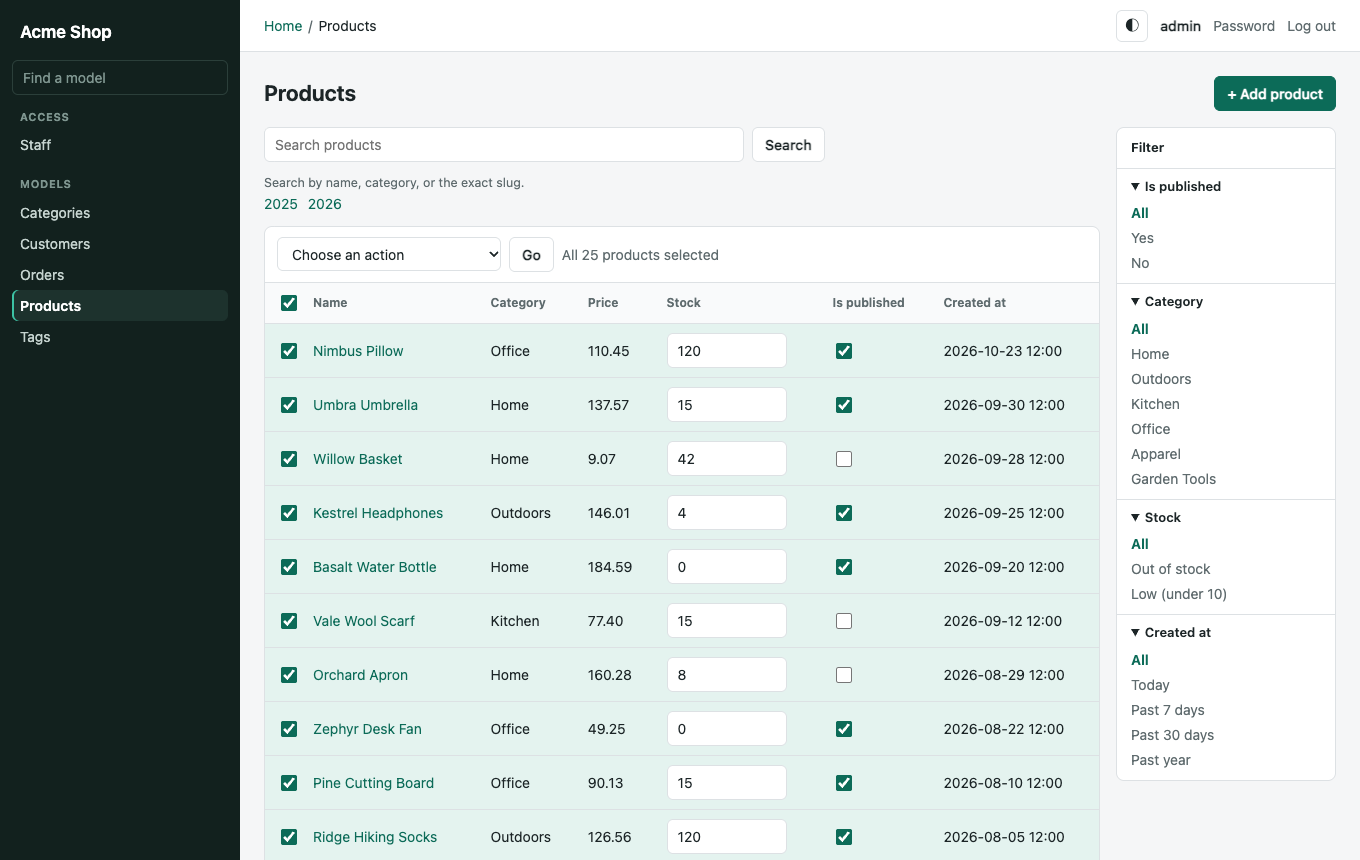
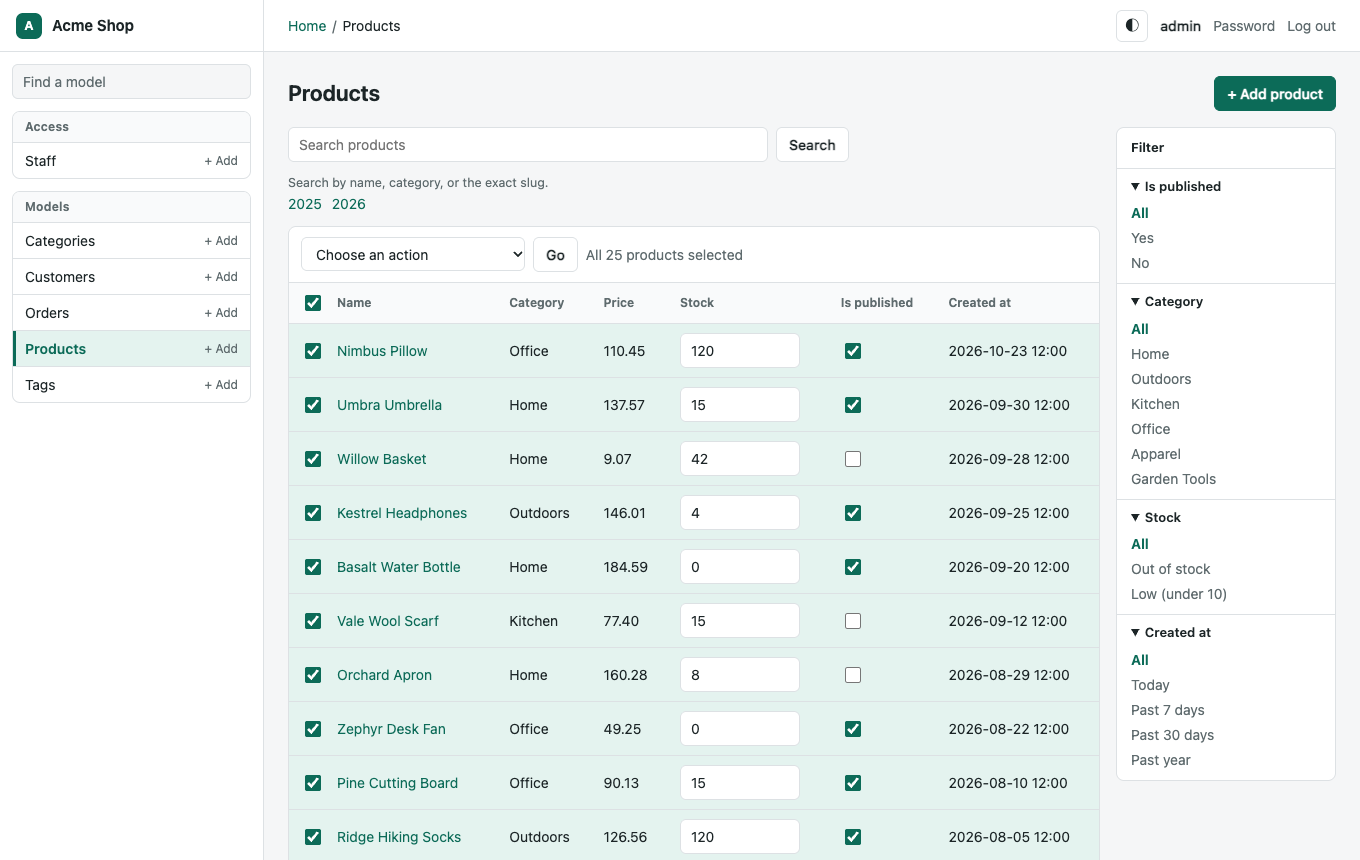
feat: redesign the sidebar as grouped model cards
Groups become cards with one row per model and an always visible add link,
on the page's own colors instead of a dark panel. The model filter now only
matches model names.

diff --git a/src/fastapi_panel/static/panel.css b/src/fastapi_panel/static/panel.css
@@ -6,10 +6,6 @@
   --bg: #f5f6f7;
   --surface: #ffffff;
   --surface-alt: #f9fafb;
-  --sidebar: #12211e;
-  --sidebar-text: #c5d3cf;
-  --sidebar-muted: #7f9690;
-  --sidebar-hover: #1d322d;
   --text: #1c2527;
   --muted: #5f6b6e;
   --border: #dde1e4;
@@ -32,10 +28,6 @@
   --bg: #111516;
   --surface: #1a2022;
   --surface-alt: #20282a;
-  --sidebar: #0c1011;
-  --sidebar-text: #bcc8c5;
-  --sidebar-muted: #748480;
-  --sidebar-hover: #182022;
   --text: #e5eaeb;
   --muted: #9aa7aa;
   --border: #2e383a;
@@ -57,10 +49,6 @@
     --bg: #111516;
     --surface: #1a2022;
     --surface-alt: #20282a;
-    --sidebar: #0c1011;
-    --sidebar-text: #bcc8c5;
-    --sidebar-muted: #748480;
-    --sidebar-hover: #182022;
     --text: #e5eaeb;
     --muted: #9aa7aa;
     --border: #2e383a;
@@ -101,32 +89,36 @@ ul { list-style: none; margin: 0; padding: 0; }
 .main { flex: 1; min-width: 0; display: flex; flex-direction: column; }
 .content { padding: 24px; flex: 1; min-width: 0; }
 
-.sidebar { width: 240px; flex: none; background: var(--sidebar); color: var(--sidebar-text); }
-.sidebar-inner { position: sticky; top: 0; max-height: 100vh; overflow-y: auto; padding: 16px 12px; }
+.sidebar { width: 264px; flex: none; background: var(--surface); border-inline-end: 1px solid var(--border); }
+.sidebar-inner { position: sticky; top: 0; max-height: 100vh; overflow-y: auto; padding: 0 12px 16px; }
 .brand {
-  display: block; color: #fff; font-size: 17px; font-weight: 650;
-  padding: 4px 8px 14px; overflow-wrap: anywhere;
+  display: flex; align-items: center; gap: 10px; min-height: 52px; margin: 0 -12px 12px; padding: 8px 16px;
+  border-bottom: 1px solid var(--border); color: var(--text); font-size: 15px; font-weight: 650; overflow-wrap: anywhere;
 }
 .brand:hover { text-decoration: none; }
+.brand-mark {
+  display: grid; place-items: center; flex: none; width: 26px; height: 26px; border-radius: 7px;
+  background: var(--accent); color: var(--on-accent); font-size: 13px; text-transform: uppercase;
+}
 .sidebar .nav-search.nav-search {
-  width: 100%; margin-bottom: 14px; padding: 6px 10px; border-radius: 6px;
-  border: 1px solid #2b3f3a; background: #0000; color: var(--sidebar-text); font: inherit;
+  width: 100%; margin-bottom: 12px; padding: 6px 10px; border-radius: 6px;
+  border: 1px solid var(--border); background: var(--bg); color: var(--text); font: inherit;
 }
-.sidebar .nav-search::placeholder { color: var(--sidebar-muted); }
-.nav-group { margin-bottom: 16px; }
+.sidebar .nav-search::placeholder { color: var(--muted); }
+.nav-group { margin-bottom: 12px; border: 1px solid var(--border); border-radius: var(--radius); overflow: hidden; }
 .nav-title {
-  font-size: 11px; font-weight: 650; letter-spacing: .06em; text-transform: uppercase;
-  color: var(--sidebar-muted); padding: 0 8px 4px;
+  padding: 6px 12px; background: var(--surface-alt); color: var(--muted);
+  font-size: 12px; font-weight: 650; letter-spacing: .02em;
 }
-.nav-item { display: flex; align-items: center; border-radius: 6px; }
-.nav-item a { color: var(--sidebar-text); padding: 5px 8px; }
-.nav-item > a:first-child { flex: 1; min-width: 0; }
-.nav-item a:hover { text-decoration: none; color: #fff; }
-.nav-item:hover { background: var(--sidebar-hover); }
-.nav-item.active { background: var(--sidebar-hover); box-shadow: inset 2px 0 0 #3cc2a4; }
-.nav-item.active a:first-child { color: #fff; font-weight: 600; }
-.nav-add { opacity: 0; font-size: 16px; line-height: 1; }
-.nav-item:hover .nav-add, .nav-add:focus-visible { opacity: 1; }
+.nav-item { display: flex; align-items: center; border-top: 1px solid var(--border); }
+.nav-item a { padding: 7px 12px; color: var(--text); }
+.nav-item > a:first-child { flex: 1; min-width: 0; overflow-wrap: anywhere; }
+.nav-item a:hover { text-decoration: none; }
+.nav-item:hover { background: var(--surface-alt); }
+.nav-item.active { background: var(--accent-soft); box-shadow: inset 3px 0 0 var(--accent); }
+.nav-item.active > a:first-child { color: var(--accent); font-weight: 600; }
+.nav-item .nav-add { flex: none; color: var(--muted); font-size: 12px; white-space: nowrap; }
+.nav-item .nav-add:hover { color: var(--accent); }
 
 .topbar {
   display: flex; align-items: center; gap: 12px; min-height: 52px; padding: 8px 24px;

diff --git a/src/fastapi_panel/templates/fastapi_panel/base.html b/src/fastapi_panel/templates/fastapi_panel/base.html
@@ -16,7 +16,7 @@
 <div class="layout">
   <aside class="sidebar" id="sidebar">
     <div class="sidebar-inner">
-    <a class="brand" href="{{ root }}/">{{ site.header }}</a>
+    <a class="brand" href="{{ root }}/"><span class="brand-mark" aria-hidden="true">{{ site.header[:1] }}</span>{{ site.header }}</a>
     <input class="nav-search" type="search" placeholder="Find a model" aria-label="Find a model" data-nav-filter>
     <nav aria-label="Models">
       {% for group in nav %}
@@ -26,7 +26,7 @@
           {% for item in group["items"] %}
           <li class="nav-item{% if item.active %} active{% endif %}" data-nav-item>
             <a href="{{ item.url }}"{% if item.active %} aria-current="page"{% endif %}>{{ item.label }}</a>
-            {% if item.add_url %}<a class="nav-add" href="{{ item.add_url }}" aria-label="Add to {{ item.label }}" title="Add">+</a>{% endif %}
+            {% if item.add_url %}<a class="nav-add" href="{{ item.add_url }}" aria-label="Add to {{ item.label }}">+ Add</a>{% endif %}
           </li>
           {% endfor %}
         </ul>

diff --git a/src/fastapi_panel/static/panel.js b/src/fastapi_panel/static/panel.js
@@ -24,7 +24,7 @@ function setupChrome() {
     $$("[data-nav-group]").forEach((group) => {
       const items = $$("[data-nav-item]", group);
       items.forEach((item) => {
-        item.hidden = !item.textContent.toLowerCase().includes(term);
+        item.hidden = !$("a", item).textContent.toLowerCase().includes(term);
       });
       group.hidden = items.every((item) => item.hidden);
     });

diff --git a/scripts/screenshots.py b/scripts/screenshots.py
@@ -93,6 +93,11 @@ def main() -> int:
         page.goto(f"{BASE}/")
         shot("dashboard")
 
+        page.fill("[data-nav-filter]", "add")
+        assert page.locator("[data-nav-item]:visible").count() == 0, "the Add links shouldn't match the model filter"
+        page.fill("[data-nav-filter]", "prod")
+        assert page.locator("[data-nav-item]:visible").count() == 1
+
         page.click("[data-toggle-theme]")
         page.goto(f"{BASE}/product")
         shot("changelist-dark")

diff --git a/docs/customizing.md b/docs/customizing.md
@@ -119,7 +119,7 @@ The default Content-Security-Policy blocks inline scripts and styles, so keep yo
 Everything uses CSS variables. Load a stylesheet with `extra_css` and override them:
 
 ```css
-:root { --accent: #6d28d9; --accent-hover: #5b21b6; --accent-soft: #ede9fe; --sidebar: #1e1b4b; }
+:root { --accent: #6d28d9; --accent-hover: #5b21b6; --accent-soft: #ede9fe; }
 :root[data-theme="dark"] { --accent: #a78bfa; --on-accent: #1e1b4b; }
 ```
 
